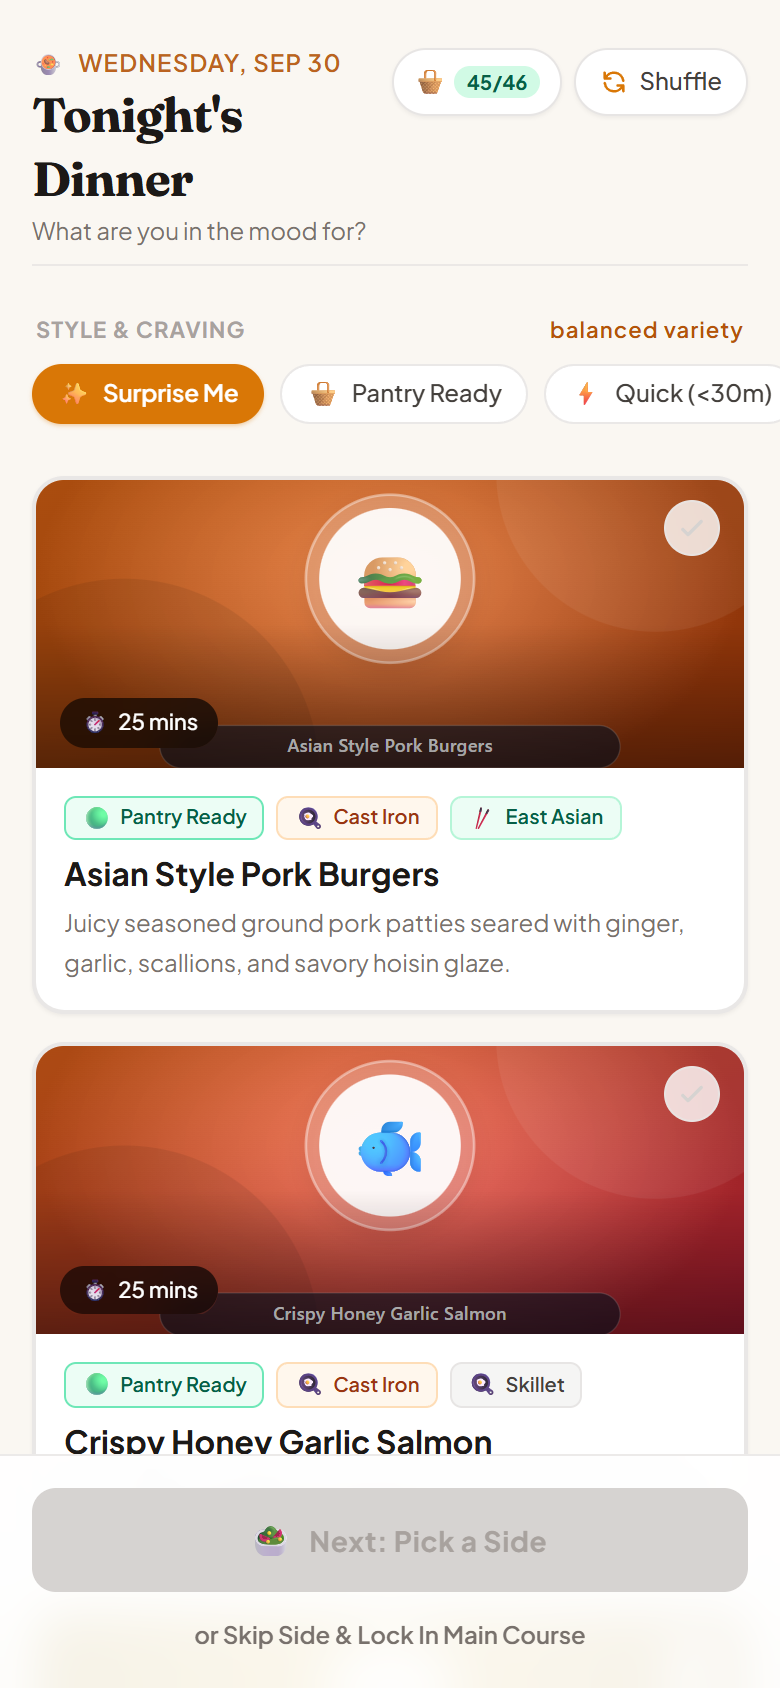
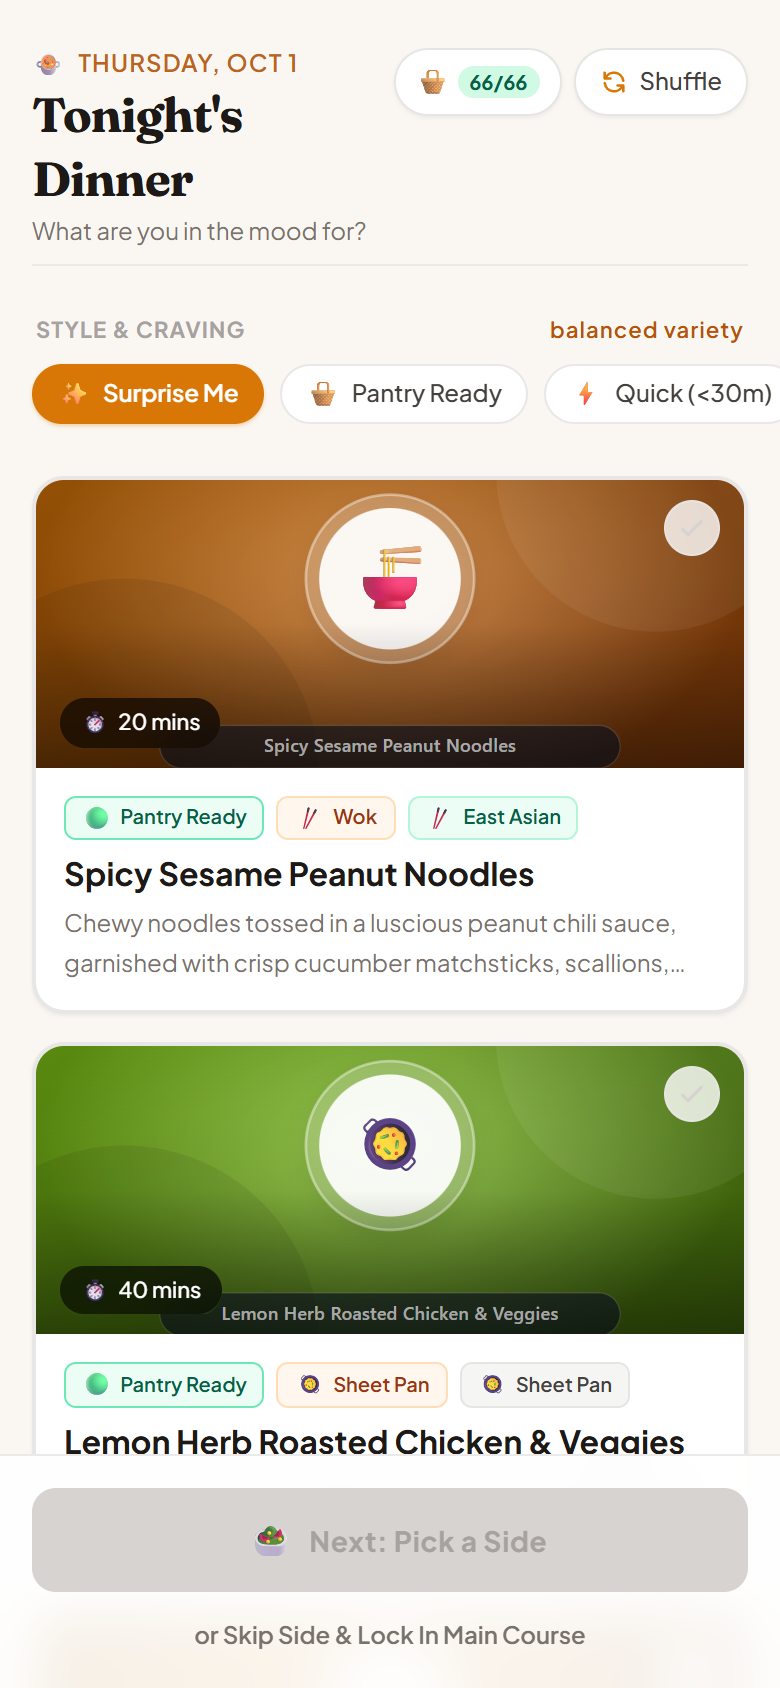
fix(ui): improve pantry item readability and eliminate truncation in drawer modal

diff --git a/static/index.html b/static/index.html
@@ -512,7 +512,7 @@
 
   <!-- Pantry Inventory Modal Drawer -->
   <div id="pantryModal" class="hidden fixed inset-0 z-50 overflow-y-auto bg-stone-900/60 backdrop-blur-sm flex items-center justify-center p-3 sm:p-4">
-    <div class="bg-warm-50 w-full max-w-md rounded-3xl shadow-2xl border border-stone-200 overflow-hidden flex flex-col max-h-[90vh]">
+    <div class="bg-warm-50 w-full max-w-md sm:max-w-lg rounded-3xl shadow-2xl border border-stone-200 overflow-hidden flex flex-col max-h-[90vh]">
       
       <!-- Modal Header -->
       <div class="p-4 border-b border-stone-200 bg-white flex items-center justify-between">
@@ -1602,44 +1602,78 @@
         return ia - ib;
       });
 
+      const catMeta = {
+        'protein': { label: 'Meat & Seafood', icon: '🥩' },
+        'produce': { label: 'Produce & Fresh', icon: '🥦' },
+        'dairy': { label: 'Dairy & Eggs', icon: '🧀' },
+        'grains & bakery': { label: 'Grains & Bakery', icon: '🥖' },
+        'sauces & condiments': { label: 'Sauces & Condiments', icon: '🥢' },
+        'spices & herbs': { label: 'Spices & Seasonings', icon: '🧂' },
+        'pantry': { label: 'Pantry Staples', icon: '🥫' }
+      };
+
       sortedCats.forEach(cat => {
         const groupWrapper = document.createElement('div');
-        groupWrapper.className = 'space-y-1.5';
+        groupWrapper.className = 'space-y-2';
+
+        const meta = catMeta[cat] || { label: cat.toUpperCase(), icon: '📦' };
+        const inStockCount = categories[cat].filter(it => it.in_stock === 1 || it.is_staple === 1).length;
+        const totalCount = categories[cat].length;
 
         const groupTitle = document.createElement('div');
-        groupTitle.className = 'text-[10px] font-extrabold uppercase tracking-wider text-stone-400 px-1 pt-1';
-        groupTitle.textContent = cat;
+        groupTitle.className = 'flex items-center justify-between text-xs font-bold uppercase tracking-wider text-stone-500 px-1 pt-2 border-b border-stone-200/70 pb-1';
+        groupTitle.innerHTML = `
+          <span class="flex items-center space-x-1.5 text-stone-700">
+            <span>${meta.icon}</span>
+            <span>${escapeHtml(meta.label)}</span>
+          </span>
+          <span class="text-[11px] font-semibold text-stone-400 normal-case tracking-normal">
+            ${inStockCount} / ${totalCount} in stock
+          </span>
+        `;
         groupWrapper.appendChild(groupTitle);
 
         const listDiv = document.createElement('div');
-        listDiv.className = 'grid grid-cols-1 sm:grid-cols-2 gap-1.5';
+        listDiv.className = 'space-y-1.5';
 
         categories[cat].forEach(item => {
           const isInStock = item.in_stock === 1 || item.is_staple === 1;
           const itemEl = document.createElement('div');
-          itemEl.className = `flex items-center justify-between p-2.5 rounded-xl border transition-all cursor-pointer ${
+          itemEl.className = `flex items-center justify-between p-2.5 sm:p-3 rounded-2xl border transition-all cursor-pointer ${
             isInStock 
-              ? 'bg-white border-emerald-200/90 hover:border-emerald-300 shadow-sm' 
-              : 'bg-stone-50/80 border-stone-200 text-stone-400 hover:bg-stone-100'
+              ? 'bg-white border-stone-200/90 hover:border-emerald-300 shadow-xs' 
+              : 'bg-stone-50/90 border-stone-200/70 hover:border-stone-300'
           }`;
           itemEl.onclick = () => togglePantryItem(item.id, isInStock);
 
           itemEl.innerHTML = `
-            <div class="flex items-center space-x-2 min-w-0 pr-1">
-              <span class="text-sm flex-shrink-0">${isInStock ? '🟢' : '⚪'}</span>
-              <span class="text-xs font-semibold truncate ${isInStock ? 'text-stone-800' : 'text-stone-400 line-through decoration-stone-300'}">
+            <div class="flex items-center space-x-2.5 min-w-0 flex-1 pr-2">
+              <span class="text-base flex-shrink-0">${isInStock ? '🟢' : '⚪'}</span>
+              <span class="text-sm leading-snug break-words ${
+                isInStock 
+                  ? 'font-semibold text-stone-900' 
+                  : 'font-medium text-stone-500'
+              }">
                 ${escapeHtml(item.display_name)}
               </span>
             </div>
-            <div class="flex items-center space-x-1">
-              <span class="text-[10px] font-bold px-1.5 py-0.5 rounded-md ${isInStock ? 'bg-emerald-50 text-emerald-800' : 'bg-stone-100 text-stone-400'}">
-                ${isInStock ? 'In Stock' : 'Out'}
-              </span>
+            <div class="flex items-center space-x-2 flex-shrink-0">
+              <button 
+                type="button"
+                onclick="event.stopPropagation(); togglePantryItem(${item.id}, ${isInStock});"
+                class="px-2.5 py-1 text-xs font-bold rounded-full transition-all flex items-center space-x-1 border ${
+                  isInStock 
+                    ? 'bg-emerald-50 text-emerald-800 border-emerald-300 hover:bg-emerald-100' 
+                    : 'bg-rose-50 text-rose-700 border-rose-200 hover:bg-rose-100'
+                }">
+                <span>${isInStock ? '✓' : '✕'}</span>
+                <span>${isInStock ? 'In Stock' : 'Out'}</span>
+              </button>
               <button 
                 type="button" 
                 onclick="event.stopPropagation(); deletePantryItem(${item.id});" 
                 title="Remove item" 
-                class="w-5 h-5 rounded-md hover:bg-rose-50 hover:text-rose-600 text-stone-300 flex items-center justify-center text-[11px] transition-colors">
+                class="w-7 h-7 rounded-lg hover:bg-rose-50 hover:text-rose-600 text-stone-300 hover:border hover:border-rose-200 flex items-center justify-center text-xs transition-colors">
                 ✕
               </button>
             </div>
